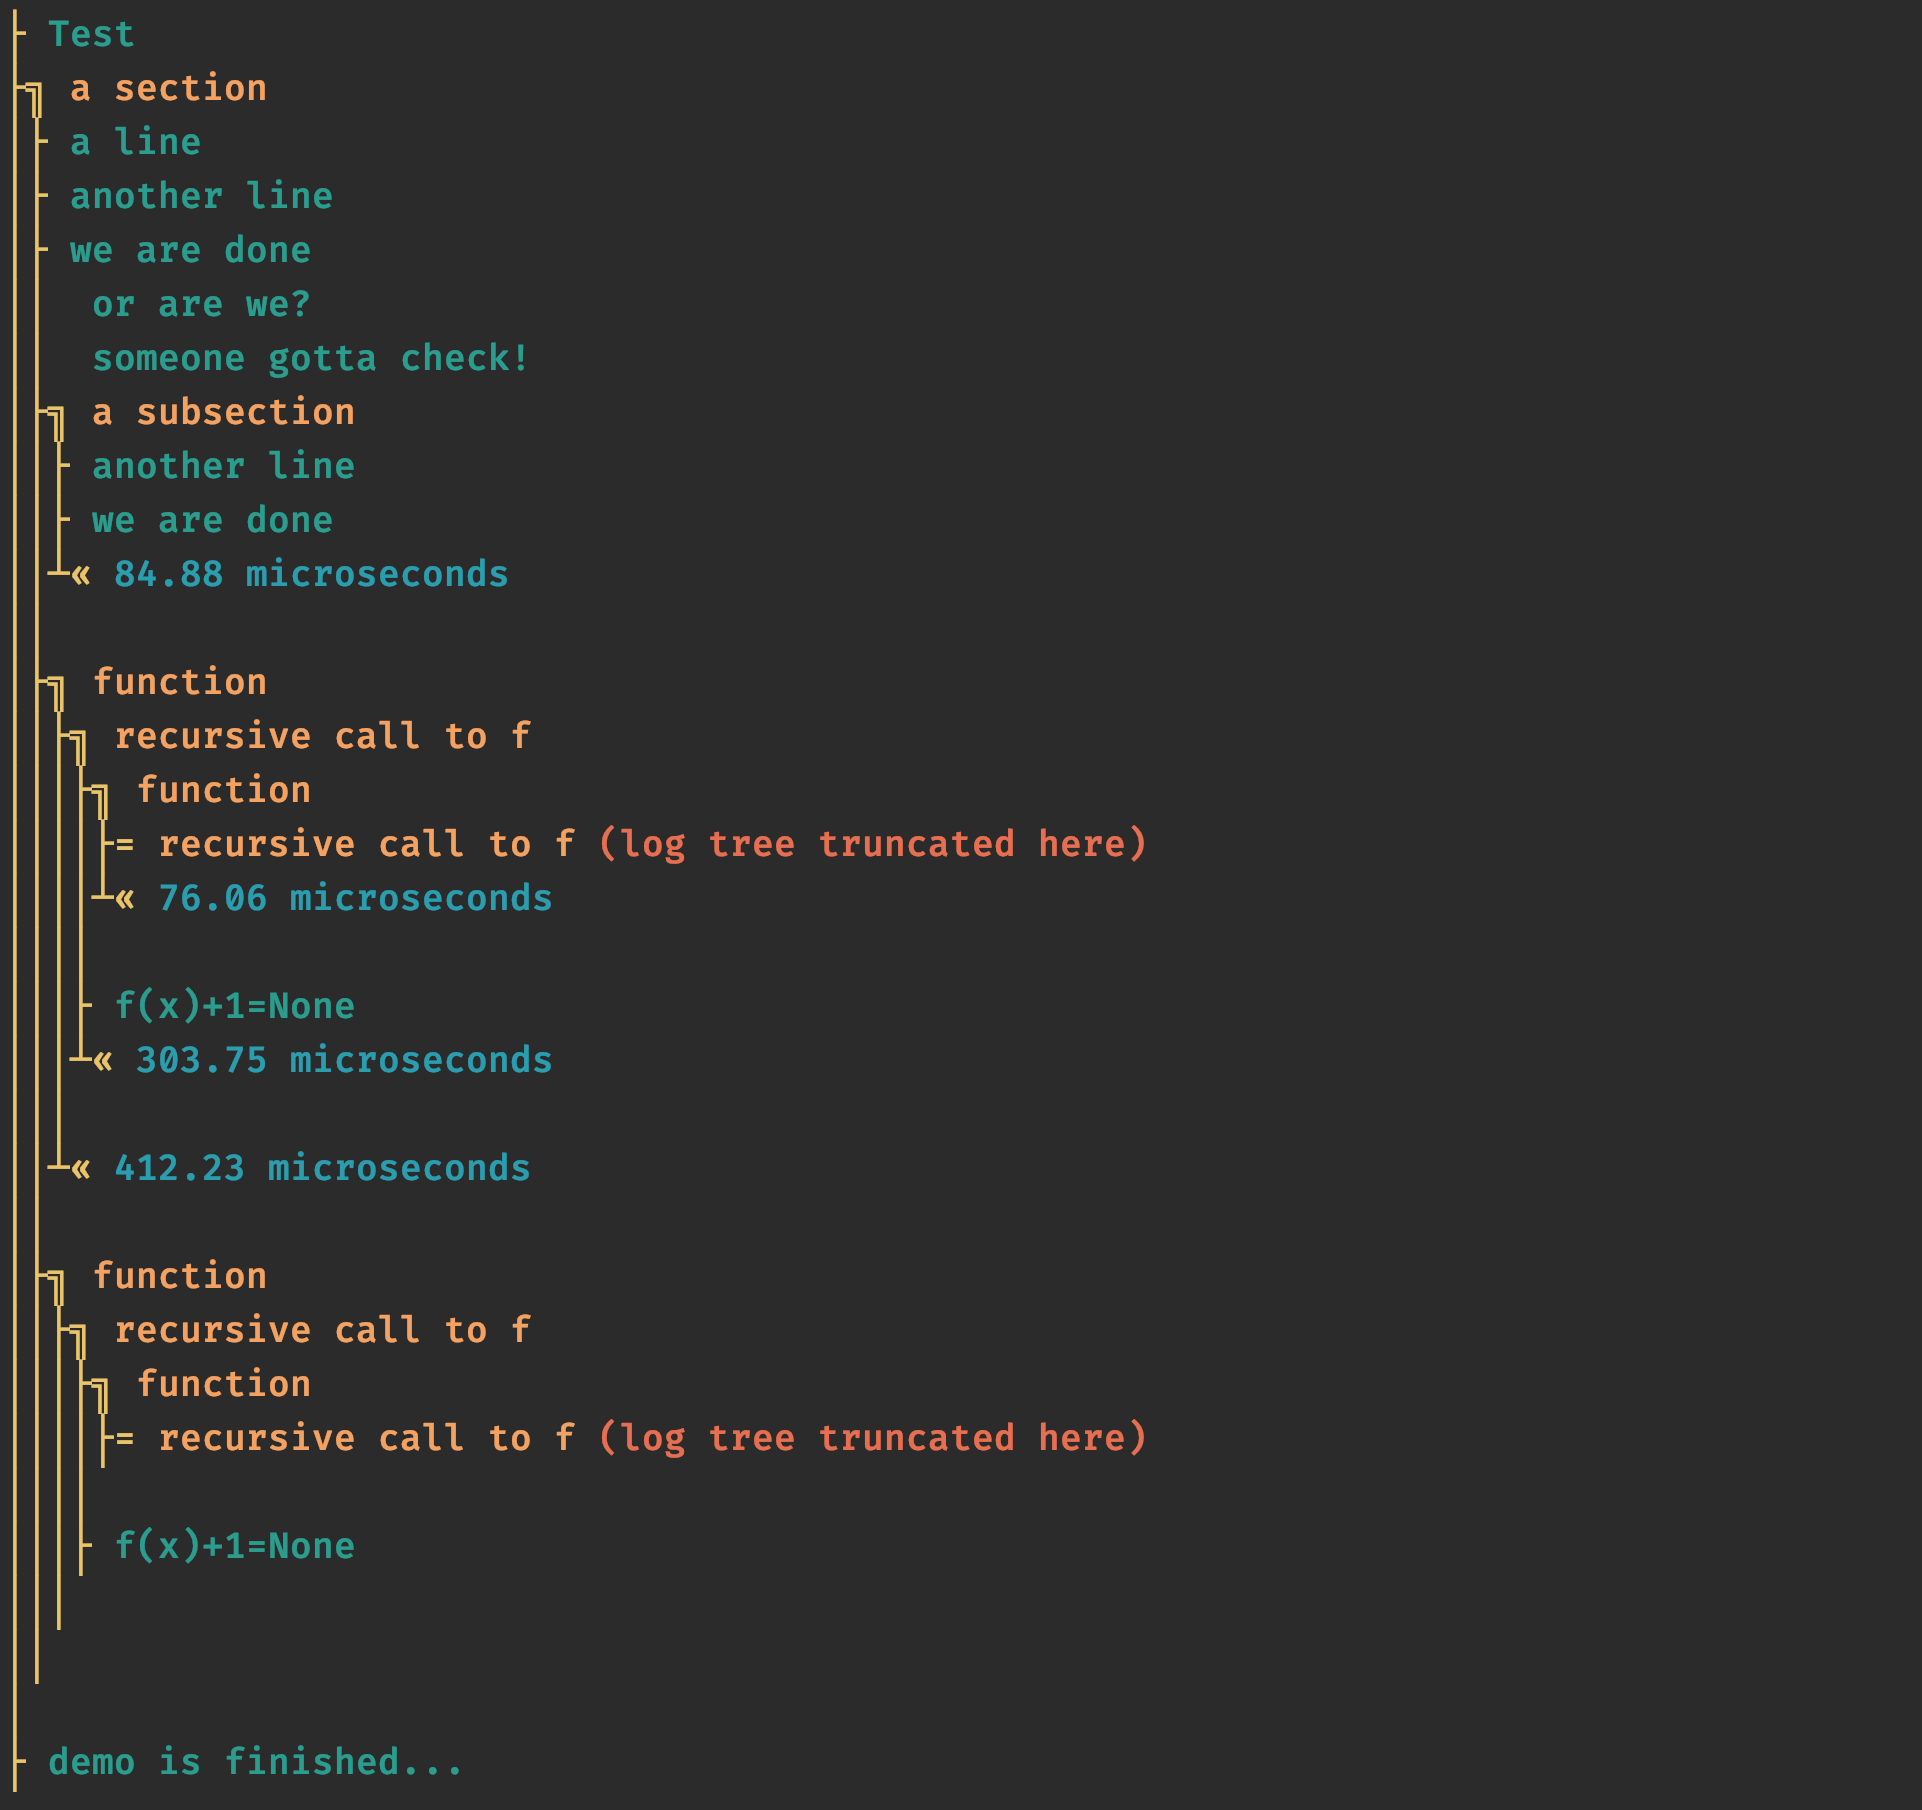
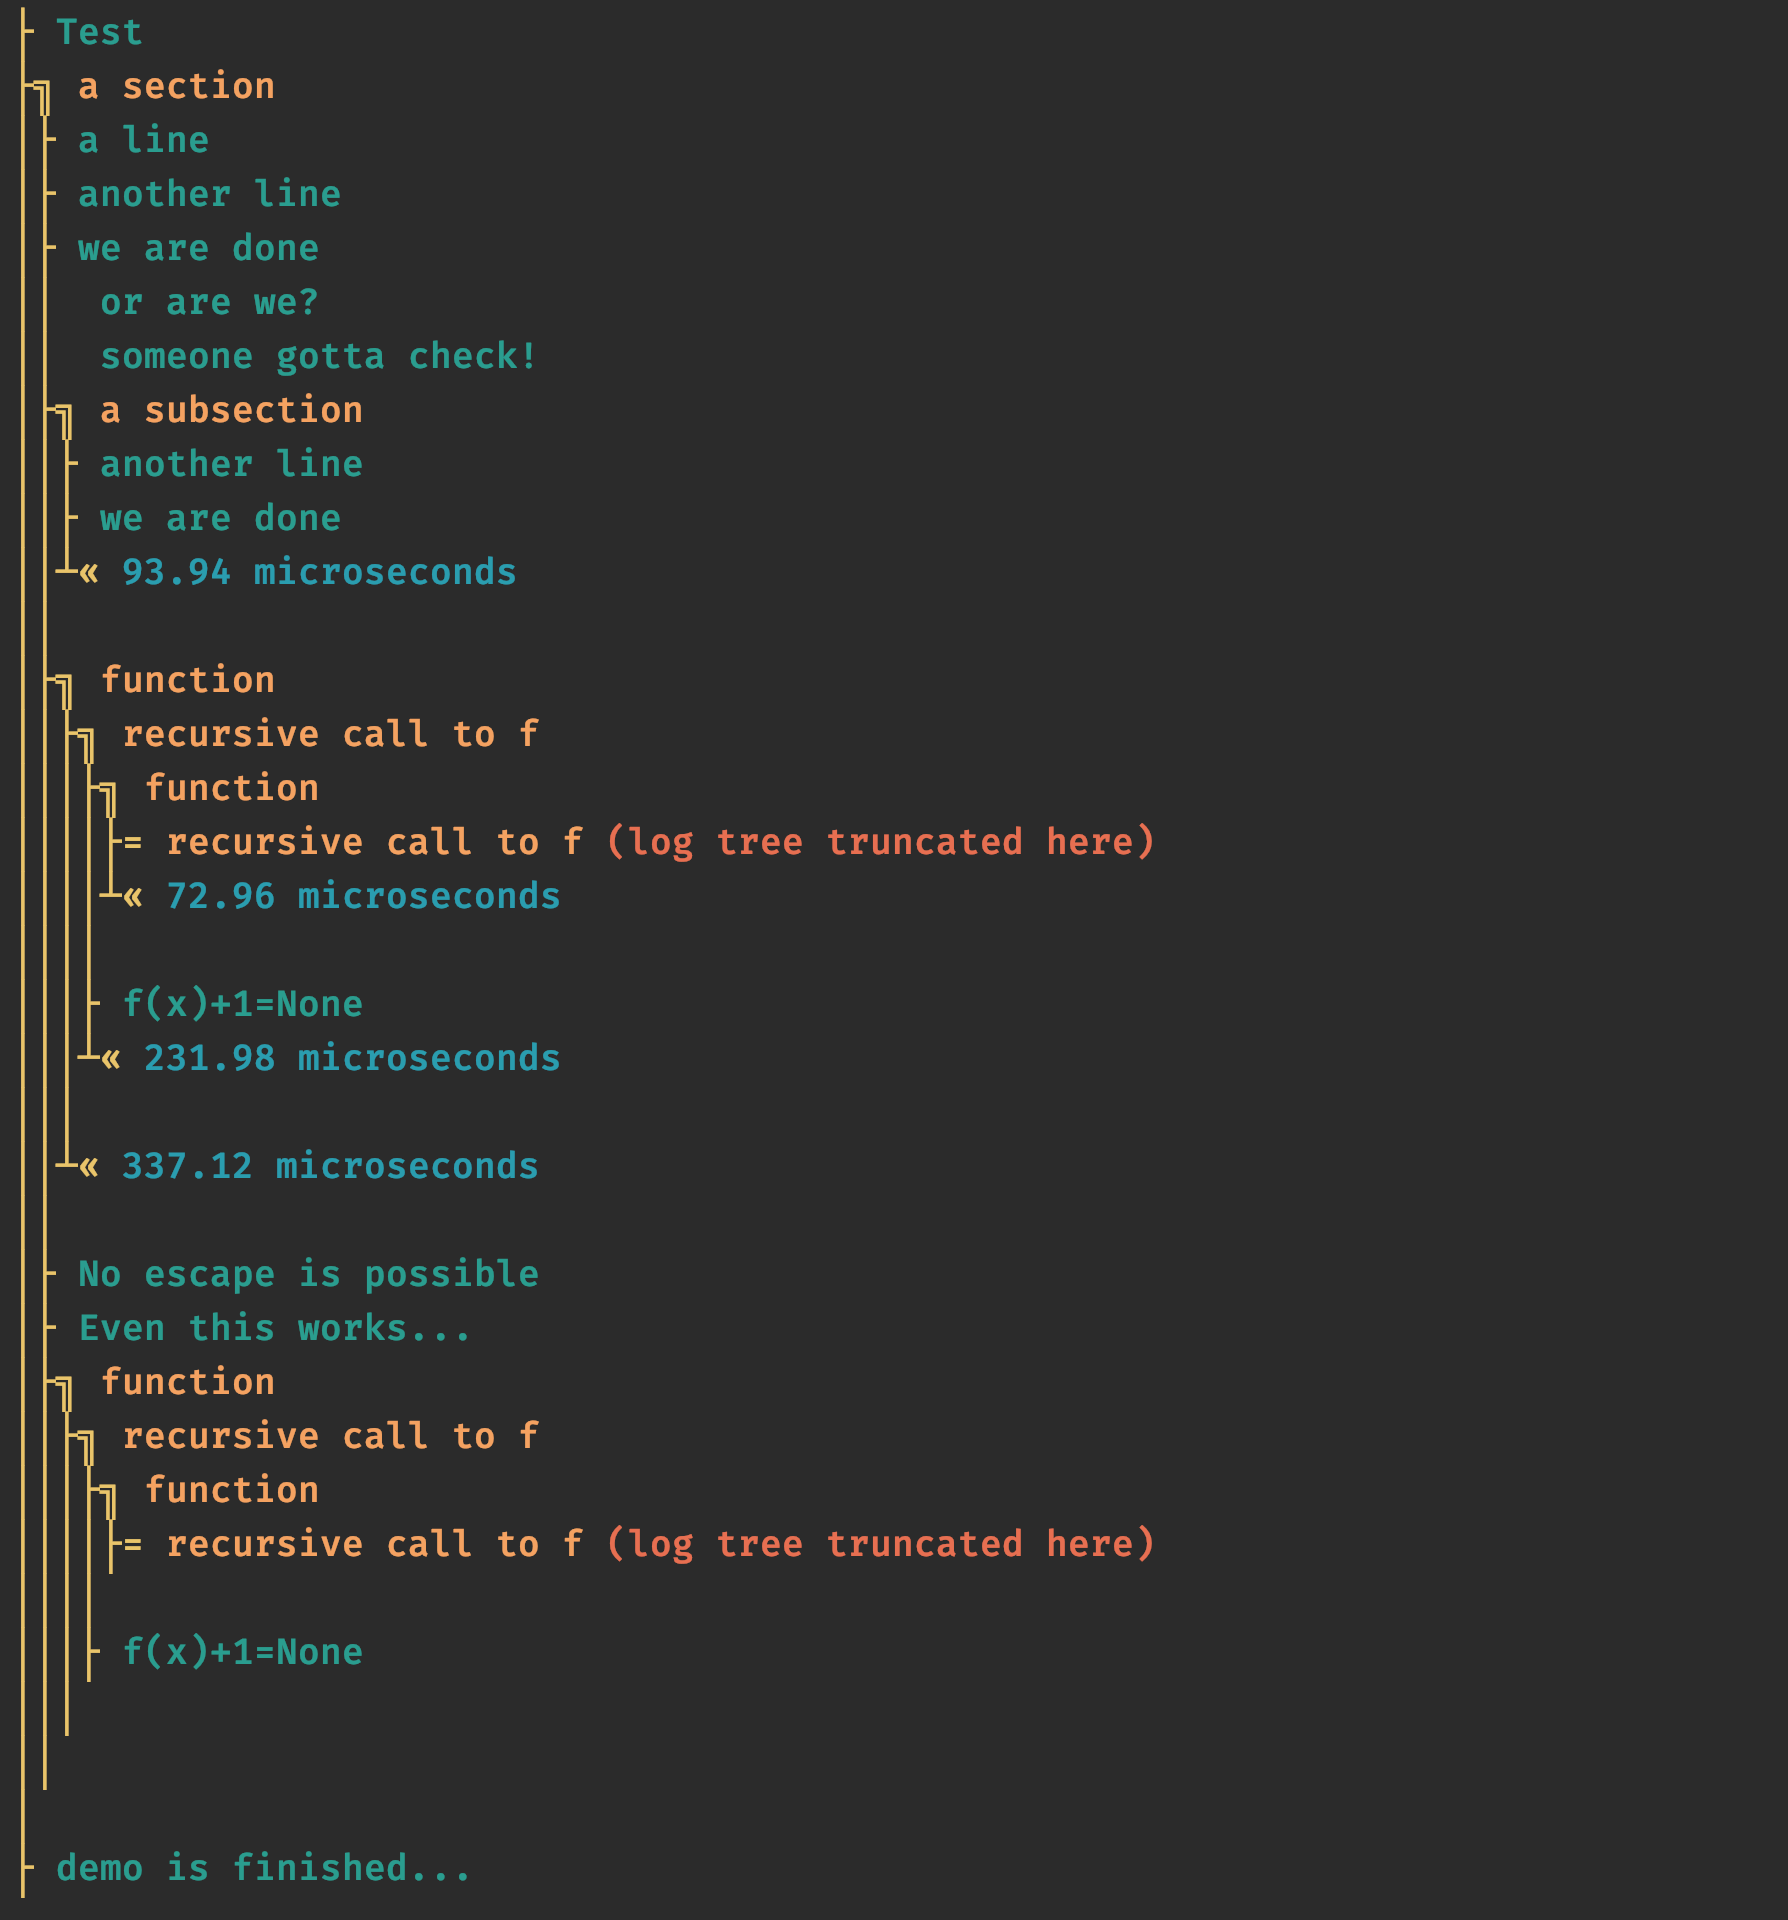
added capture context mannager

Changed region(s): [[0.0, 0.0, 0.646, 0.9901]]

diff --git a/arbol/arbol.py b/arbol/arbol.py
@@ -1,8 +1,10 @@
+
 import locale
 import math
 import sys
 import time
 from contextlib import contextmanager
+from threading import local
 
 try:
     # for color support, install ansicolors
@@ -21,6 +23,7 @@ class Arbol:
     _depth = 0
 
     # current_section = ''
+    passthrough = False
     enable_output = True
     colorful = True
     max_depth = math.inf
@@ -51,11 +54,13 @@ class Arbol:
         _tb_ = '-'
         _la_ = '<<'
 
+    _thread_local = local()
+
     def __init__(self):
         return
 
     @staticmethod
-    def native_print(*args, sep=' ', end='\n', file=sys.__stdout__):
+    def native_print(*args, sep=' ', end='\n', file=None):
         if Arbol.enable_output:
             args = (_colorise(arg, fg=Arbol.c_text) for arg in args)
             print(*args, sep=sep, end=end, file=file)
@@ -74,7 +79,7 @@ def _colorise(text: str, fg: str):
         return text
 
 
-def aprint(*args, sep=' ', end='\n'):
+def aprint(*args, sep=' ', end='\n', file=None, separate_lines=False):
     """
     Arbol version of print. Text will be printed following the arborescent structure of sections.
 
@@ -86,18 +91,21 @@ def aprint(*args, sep=' ', end='\n'):
 
     """
 
-    if Arbol._depth <= Arbol.max_depth:
+    if Arbol.passthrough or hasattr(Arbol._thread_local, 'captured') and Arbol._thread_local.captured:
+        print(*args, sep=sep, end=end, file=file)
+
+    elif Arbol._depth <= Arbol.max_depth:
         level = min(Arbol.max_depth, Arbol._depth)
         text = sep.join(tuple(str(arg) for arg in args))+end
         lines = text.split('\n')
         for i, line in enumerate(lines):
             if line:
-                Arbol.native_print(_colorise(Arbol._vl_ * int(level) + (Arbol._br_ if i == 0 else Arbol._vl_), fg=Arbol.c_scafold) + ' ', end='')
-                Arbol.native_print(line, sep=sep, end='\n')
+                Arbol.native_print(_colorise(Arbol._vl_ * int(level) + (Arbol._br_ if i == 0 or separate_lines else Arbol._vl_), fg=Arbol.c_scafold) + ' ', end='', file=file)
+                Arbol.native_print(line, sep=sep, end=end, file=file)
 
 
 @contextmanager
-def asection(section_header: str):
+def asection(section_header: str, file=None):
     """
     Introduces a 'node' in the tree below which context-bound 'aprints' will be placed.
     Ideally, you want to carefully choose blocks of code / workflow units so that it forms a 'unit'.
@@ -111,13 +119,15 @@ def asection(section_header: str):
     if Arbol._depth + 1 <= Arbol.max_depth:
         Arbol.native_print(
             _colorise(Arbol._vl_ * Arbol._depth + Arbol._bd_, fg=Arbol.c_scafold)
-            + ' ' + _colorise(section_header, fg=Arbol.c_section)
+            + ' ' + _colorise(section_header, fg=Arbol.c_section),
+            file=file
         )  # ≡
     elif Arbol._depth + 1 == Arbol.max_depth + 1:
         Arbol.native_print(
             _colorise(Arbol._vl_ * Arbol._depth
                       + Arbol._br_ + '=', fg=Arbol.c_scafold)
-            + _colorise(f' {section_header}', fg=Arbol.c_section) + color(' (log tree truncated here)', fg=Arbol.c_truncat)
+            + _colorise(f' {section_header}', fg=Arbol.c_section) + color(' (log tree truncated here)', fg=Arbol.c_truncat),
+            file=file
         )
 
     Arbol._depth += 1
@@ -136,15 +146,15 @@ def asection(section_header: str):
 
         if Arbol.elapsed_time:
             elapsed = stop - start
-            _print_elapsed(elapsed)
+            _print_elapsed(elapsed, file)
 
-        Arbol.native_print(_colorise(Arbol._vl_ * (Arbol._depth + 1), fg=Arbol.c_scafold))
+        Arbol.native_print(_colorise(Arbol._vl_ * (Arbol._depth + 1), fg=Arbol.c_scafold), file=file)
 
         if exception is not None:
             raise exception
 
 
-def section(section_header: str):
+def section(section_header: str, file=None):
     """
     Function decorator that initiates a section for each function call.
     Don't abuse this too much or you might pollute your stack trace excessively...
@@ -157,7 +167,7 @@ def section(section_header: str):
 
     def _outer(func):
         def _wrap(*args, **kwargs):
-            with asection(section_header):
+            with asection(section_header, file=file):
                 return func(*args, **kwargs)
 
         return _wrap
@@ -165,48 +175,89 @@ def section(section_header: str):
     return _outer
 
 
-def _print_elapsed(elapsed):
+@contextmanager
+def acapture():
+    """
+
+    Source:
+    https://stackoverflow.com/questions/5136611/capture-stdout-from-a-script
+    """
+
+    try:
+        # Redirect
+        import io
+        sys.stdout = io.TextIOWrapper(io.BytesIO(), sys.stdout.encoding)
+        sys.stderr = io.TextIOWrapper(io.BytesIO(), sys.stderr.encoding)
+
+        Arbol._thread_local.captured = True
+        yield
+        Arbol._thread_local.captured = False
+
+    finally:
+        # Read
+        sys.stdout.seek(0)
+        sys.stderr.seek(0)
+        output_stdout = sys.stdout.read()
+        output_stderr = sys.stderr.read()
+        sys.stdout.close()
+        sys.stderr.close()
+
+        # Restore
+        sys.stdout = sys.__stdout__
+        sys.stderr = sys.__stderr__
+
+        # Send to arbol:
+        aprint(output_stdout, separate_lines=True)
+        aprint(output_stderr, file=sys.stderr, separate_lines=True)
+
+
+def _print_elapsed(elapsed, file=None):
     if elapsed < 0.001:
         Arbol.native_print(
             _colorise(Arbol._vl_ * (Arbol._depth + 1)
                       + Arbol._tb_
                       + Arbol._la_, fg=Arbol.c_scafold)
-            + _colorise(f' {elapsed * 1000 * 1000:.2f} microseconds', fg=Arbol.c_timming)
+            + _colorise(f' {elapsed * 1000 * 1000:.2f} microseconds', fg=Arbol.c_timming),
+        file=file
         )
     elif elapsed < 1:
         Arbol.native_print(
             _colorise(Arbol._vl_ * (Arbol._depth + 1)
                       + Arbol._tb_
                       + Arbol._la_, fg=Arbol.c_scafold)
-            + _colorise(f' {elapsed * 1000:.2f} milliseconds', fg=Arbol.c_timming)
+            + _colorise(f' {elapsed * 1000:.2f} milliseconds', fg=Arbol.c_timming),
+            file=file
         )
     elif elapsed < 60:
         Arbol.native_print(
             _colorise(Arbol._vl_ * (Arbol._depth + 1)
                       + Arbol._tb_
                       + Arbol._la_, fg=Arbol.c_scafold)
-            + _colorise(f' {elapsed:.2f} seconds', fg=Arbol.c_timming)
+            + _colorise(f' {elapsed:.2f} seconds', fg=Arbol.c_timming),
+            file=file
         )
     elif elapsed < 60 * 60:
         Arbol.native_print(
             _colorise(Arbol._vl_ * (Arbol._depth + 1)
                       + Arbol._tb_
                       + Arbol._la_, fg=Arbol.c_scafold)
-            + _colorise(f' {elapsed / 60:.2f} minutes', fg=Arbol.c_timming)
+            + _colorise(f' {elapsed / 60:.2f} minutes', fg=Arbol.c_timming),
+            file=file
         )
     elif elapsed < 24 * 60 * 60:
         Arbol.native_print(
             _colorise(Arbol._vl_ * (Arbol._depth + 1)
                       + Arbol._tb_
                       + Arbol._la_, fg=Arbol.c_scafold)
-            + _colorise(f' {elapsed / (60 * 60):.2f} hours', fg=Arbol.c_timming)
+            + _colorise(f' {elapsed / (60 * 60):.2f} hours', fg=Arbol.c_timming),
+            file=file
         )
 
 
 # Some legacy projects are using previous function names, this is deprecated!
-def lprint(*args, sep=' ', end='\n'):
-    return lprint(*args, sep=sep, end=end)
+def lprint(*args, sep=' ', end='\n', file=None):
+    return aprint(*args, sep=sep, end=end, file=file)
 
-def lsection(section_header: str):
-    with asection(section_header):
+def lsection(section_header: str, file=None):
+    with asection(section_header, file=file):
         yield

diff --git a/arbol/demo/demo.py b/arbol/demo/demo.py
@@ -1,4 +1,6 @@
-from arbol.arbol import aprint, asection, section, Arbol
+from arbol import Arbol, aprint, section, asection, acapture
+
+import arbol
 
 # for colors, install the ansicolors package: 'pip install ansicolors',
 # and for windows install the colorama package: 'pip install colorama'
@@ -28,6 +30,11 @@ with asection('a section'):
 
     # works through function calls and the like...
     fun(2)
+
+    # You can capture stdout if you want, usefull when a 3rd party library has printouts that you want to capture...
+    with acapture():
+        print("No escape is possible")
+        aprint("Even this works...\n")
 
     # You can deactivate the elapsed time measurement and printing:
     Arbol.elapsed_time = False

diff --git a/setup.py b/setup.py
@@ -6,7 +6,7 @@ with open("README.md", "r") as fh:
 
 setuptools.setup(
     name="arbol", # Replace with your own username
-    version="2020.11.5",
+    version="2020.11.6",
     author="Loic A Royer",
     author_email="",
     description="arbol -- Arborescent Printouts in Python",

diff --git a/arbol/__init__.py b/arbol/__init__.py
@@ -1,0 +1,1 @@
+from arbol.arbol import Arbol, aprint, asection, section, acapture

diff --git a/README.md b/README.md
@@ -4,15 +4,20 @@ Do you have a script, a command line tool, or some workflow in Python that has l
 and you can't make sense of it once it adds up to hundreds of lines on the console? Sounds familiar?  
 _arbol_ organises your stdout prints in a hierarchy that follows the structure of your code. Use a simple 
 context manager to define the hierarchy and the 'aprint' command instead of print, and voila.
-Moreover, _arbol_ measures the elpased time for each node of the tree and displays that conveniently.
 Finally, when the optional dependencies are installed, the printed tree and text are colored with an 
 exquisitely crafted combination of colors, making it even more visually appealing.  
 
 If you are wondering, 'arbol' means 'tree' in spanish.  
 
 Why not use a more traditional Python logging? We have made the choice of sticking to a plain and simple 
-scheme that matches the usage of 'print' statements. Also we could have tried to intercept stdout and do 
-some magic there, but we prefer to keep things simple and lean, and let you _choose_ to use _arbol_ where it makes sense.  
+scheme that matches the usage of 'print' statements.
+
+## Features
+
+You can use the 'acapture' context manager to capture stdout (and stderr), or use the 'aprint' replacement for the built-in 'print'.
+You create a new 'node' in the tree with the 'asection' contact manager. Moreover, _arbol_ measures the elpased time for each node of the tree and displays that conveniently.
+You have several configuration flags in the Arbol class to tune things.
+The best documentation is simply the demo below...  
 
 ## Installation
 
@@ -43,7 +48,9 @@ Note: both colorama and ansicolors are optional -- _arbol_ will work fine withou
 Here is a simple and self-explanatory example:
 ```python
 
-from arbol.arbol import aprint, asection, section, Arbol
+from arbol import Arbol, aprint, section, asection, acapture
+
+import arbol
 
 # for colors, install the ansicolors package: 'pip install ansicolors',
 # and for windows install the colorama package: 'pip install colorama'
@@ -74,6 +81,11 @@ with asection('a section'):
     # works through function calls and the like...
     fun(2)
 
+    # You can capture stdout if you want, usefull when a 3rd party library has printouts that you want to capture...
+    with acapture():
+        print("No escape is possible")
+        aprint("Even this works...\n")
+
     # You can deactivate the elapsed time measurement and printing:
     Arbol.elapsed_time = False
     fun(100)
@@ -83,8 +95,6 @@ aprint('demo is finished...')
 # You can also turn off all output with one switch:
 Arbol.enable_output = False
 aprint('you will not see that')
-
-
 
 
 ```
